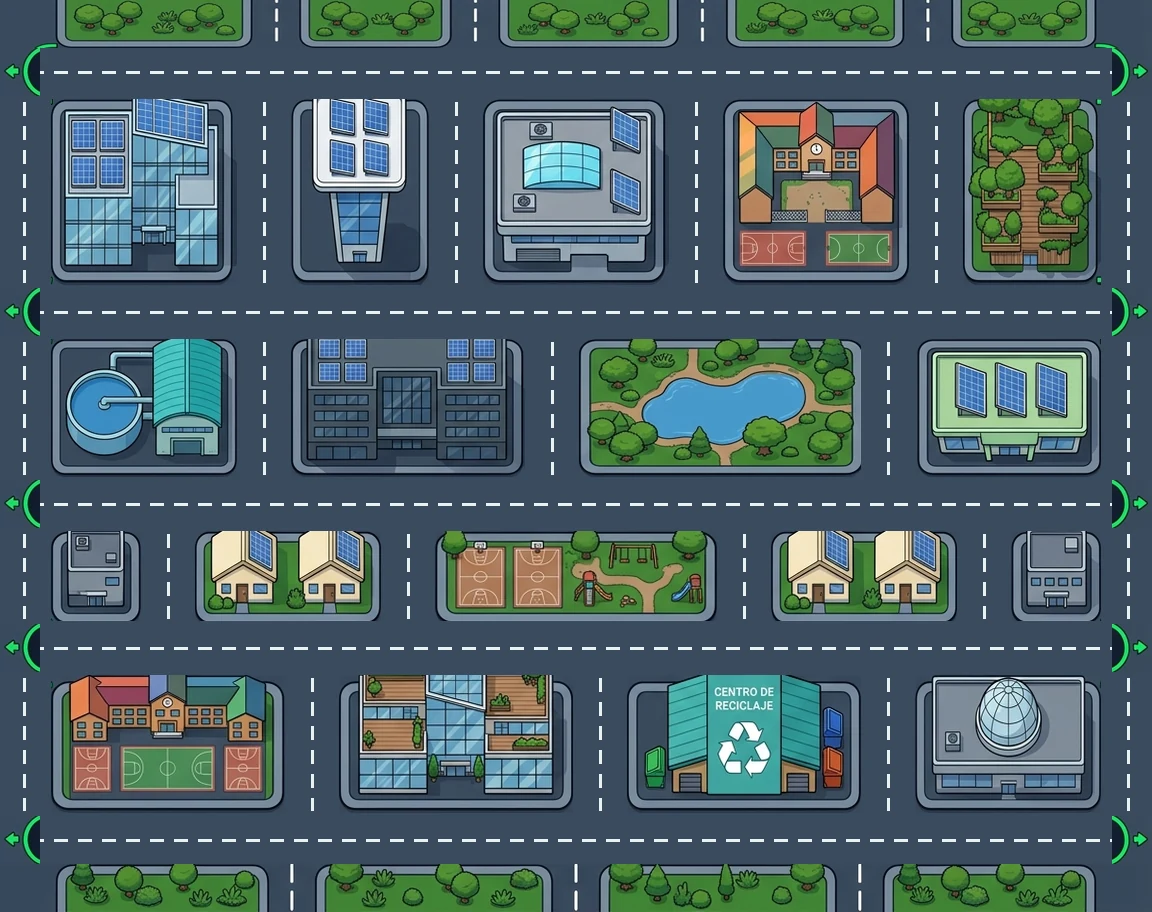
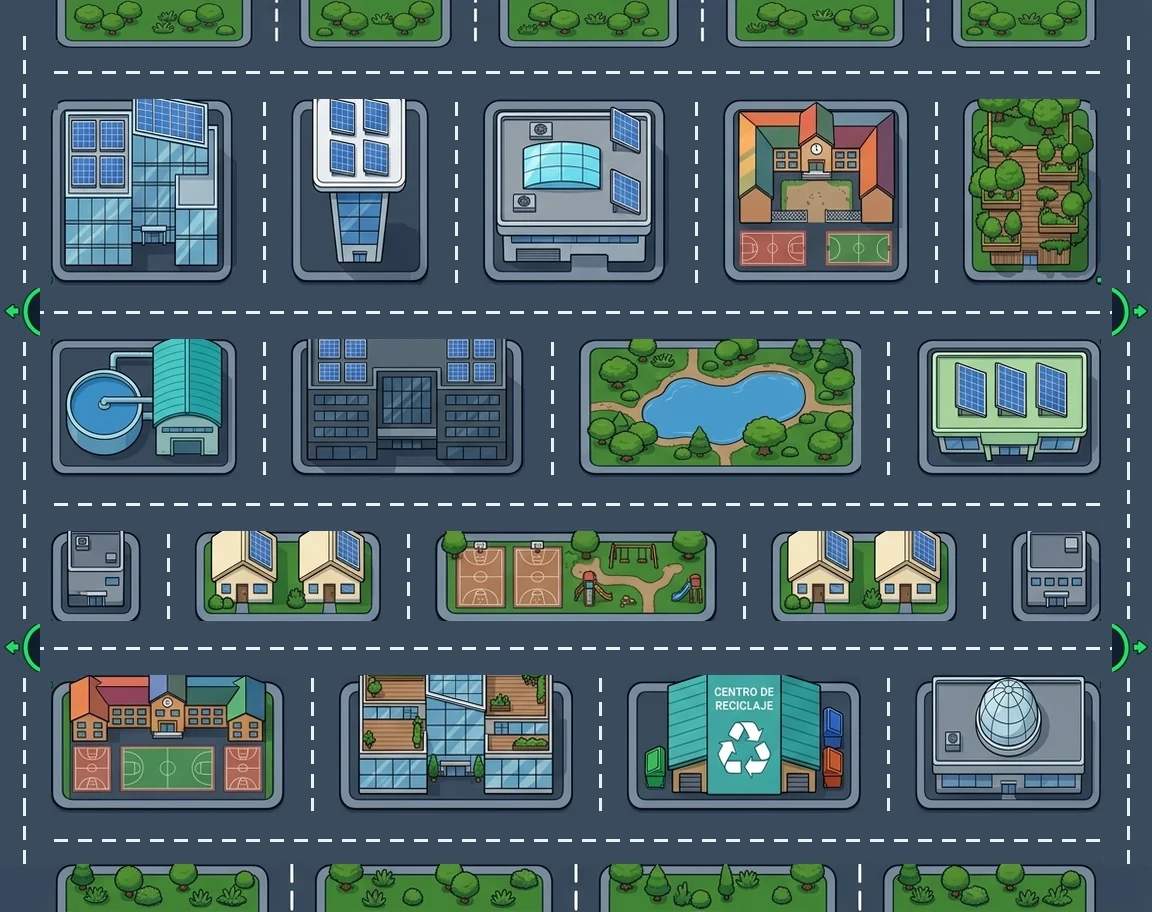
fix(camion): cruce suave por los túneles y solo 2 túneles por lado (#103)
- Al cruzar un túnel el camión (y las nubes) se interpolaban atravesando
  todo el mapa: parecía arrastrado de un lado al otro y podía chocar con una
  nube del medio. Ahora avanza hacia el borde y reaparece por el otro lado;
  la distancia de choque cuenta el atajo del túnel.
- Túneles solo en las 2 avenidas centrales (filas 6 y 13); se borraron del
  dibujo del mapa los arcos de las otras 3. La guía lo explica.

diff --git a/client/src/components/home/games/useMazeCollectorGame.ts b/client/src/components/home/games/useMazeCollectorGame.ts
@@ -617,20 +617,37 @@ function insideArea(pos: CellPosition, area: { row: number; col: number; rows: n
   return pos.row >= area.row && pos.row < area.row + area.rows && pos.col >= area.col && pos.col < area.col + area.cols
 }
 
-function interpolated(entity: Moving): { row: number; col: number } {
-  return {
-    row: entity.pos.row + (entity.nextPos.row - entity.pos.row) * entity.progress,
-    col: entity.pos.col + (entity.nextPos.col - entity.pos.col) * entity.progress,
-  }
+/**
+ * Posición entre dos celdas. Al cruzar un túnel `pos` y `nextPos` quedan en
+ * bordes opuestos: antes se interpolaba atravesando TODO el mapa (el camión
+ * parecía "arrastrado" de un lado al otro y podía chocar con una nube del
+ * medio). Ahora avanza una sola celda hacia afuera del borde y reaparece por
+ * el otro lado.
+ */
+function interpolated(entity: Moving, cols: number): { row: number; col: number } {
+  let deltaCol = entity.nextPos.col - entity.pos.col
+  if (Math.abs(deltaCol) > 1) deltaCol = deltaCol > 0 ? deltaCol - cols : deltaCol + cols
+  let col = entity.pos.col + deltaCol * entity.progress
+  // Pasada la mitad del cruce ya se dibuja entrando por el otro borde.
+  if (col < -0.5) col += cols
+  else if (col > cols - 0.5) col -= cols
+  return { row: entity.pos.row + (entity.nextPos.row - entity.pos.row) * entity.progress, col }
+}
+
+/** Distancia entre dos puntos del mapa contando el atajo de los túneles. */
+function wrappedDistance(a: { row: number; col: number }, b: { row: number; col: number }, cols: number): number {
+  let deltaCol = Math.abs(a.col - b.col)
+  if (deltaCol > cols / 2) deltaCol = cols - deltaCol
+  return Math.hypot(a.row - b.row, deltaCol)
 }
 
 function resolveGhostCollisions(state: InternalState, layout: MazeLayoutDef) {
-  const playerPoint = interpolated(state.player)
+  const playerPoint = interpolated(state.player, layout.cols)
 
   for (const ghost of state.ghosts) {
     if (ghost.mode === 'EATEN') continue
-    const ghostPoint = interpolated(ghost)
-    const distance = Math.hypot(playerPoint.row - ghostPoint.row, playerPoint.col - ghostPoint.col)
+    const ghostPoint = interpolated(ghost, layout.cols)
+    const distance = wrappedDistance(playerPoint, ghostPoint, layout.cols)
     if (distance > COLLISION_RADIUS) continue
 
     if (ghost.mode === 'FRIGHTENED') {
@@ -770,8 +787,8 @@ export type MazeGameSnapshot = {
   feedbackActive: boolean
 }
 
-function toSnapshot(state: InternalState, now: number): MazeGameSnapshot {
-  const playerPoint = interpolated(state.player)
+function toSnapshot(state: InternalState, now: number, cols: number): MazeGameSnapshot {
+  const playerPoint = interpolated(state.player, cols)
   return {
     phase: state.phase,
     level: state.level,
@@ -780,7 +797,7 @@ function toSnapshot(state: InternalState, now: number): MazeGameSnapshot {
     lives: state.lives,
     player: { row: playerPoint.row, col: playerPoint.col, facing: state.player.facing, slowed: now < state.player.slowUntil },
     ghosts: state.ghosts.map((ghost) => {
-      const point = interpolated(ghost)
+      const point = interpolated(ghost, cols)
       return {
         id: ghost.id,
         name: ghost.name,
@@ -829,7 +846,7 @@ export function useMazeCollectorGame({ layout, items, config, inputEnabled = tru
     stateRef.current = createInitialState(layout, items, config, scenario ?? null, questions)
   }
 
-  const [snapshot, setSnapshot] = useState<MazeGameSnapshot>(() => toSnapshot(stateRef.current!, 0))
+  const [snapshot, setSnapshot] = useState<MazeGameSnapshot>(() => toSnapshot(stateRef.current!, 0, layout.cols))
   const frameRef = useRef<number>(0)
   const lastTimeRef = useRef<number | null>(null)
   // Reloj de juego (issue #82): solo avanza fuera de la pausa. El motor guarda
@@ -851,7 +868,7 @@ export function useMazeCollectorGame({ layout, items, config, inputEnabled = tru
       if (pausedRef.current) return
       clockRef.current += elapsedMs
       tickEngine(stateRef.current!, layout, items, clockRef.current, elapsedMs / 1000)
-      setSnapshot(toSnapshot(stateRef.current!, clockRef.current))
+      setSnapshot(toSnapshot(stateRef.current!, clockRef.current, layout.cols))
     }
     frameRef.current = requestAnimationFrame(frame)
     return () => {
@@ -906,4 +923,4 @@ export function useMazeCollectorGame({ layout, items, config, inputEnabled = tru
 }
 
 /** Solo para pruebas del motor. */
-export const __engineForTests = { createInitialState, tickEngine }
+export const __engineForTests = { createInitialState, tickEngine, interpolated, wrappedDistance }

diff --git a/client/src/components/home/games/sostenibleCityMap.ts b/client/src/components/home/games/sostenibleCityMap.ts
@@ -9,8 +9,8 @@ import type { CellPosition, MazeLayoutDef } from './mazeCollectorTypes'
  * coincide con el dibujo — la calle es la calle, el edificio es el edificio.
  *
  * `#` = manzana o franja verde (pared), `.` = calle. Las columnas de los
- * bordes son calles que rodean la ciudad; las 5 avenidas horizontales tienen
- * su puerta de teletransporte en ambos extremos.
+ * bordes son calles que rodean la ciudad; de las 5 avenidas horizontales,
+ * solo las 2 centrales tienen túnel en ambos extremos (`CITY_TUNNEL_ROWS`).
  */
 const CITY_MAP_ROWS_ASCII = [
   '########################',
@@ -68,9 +68,17 @@ function closestOpenCell(grid: number[][], targetRow: number, targetCol: number,
 }
 
 /**
- * Las avenidas del mapa: las filas abiertas de punta a punta. Cada una es una
- * puerta de teletransporte (salir por un borde entra por el otro); el borde
- * se abre por si acaso, igual que `carveTunnels` en mazeCollectorTypes.ts.
+ * Avenidas con túnel (issue #103): solo 2 por lado, las dos centrales, lejos
+ * de las esquinas donde nacen las nubes. Con las 5 avenidas había demasiados
+ * atajos. El dibujo del mapa solo marca estas dos.
+ */
+export const CITY_TUNNEL_ROWS = [6, 13]
+
+/**
+ * Las avenidas del mapa: las filas abiertas de punta a punta. Las que están
+ * en `CITY_TUNNEL_ROWS` son puertas de teletransporte (salir por un borde
+ * entra por el otro); el borde se abre por si acaso, igual que
+ * `carveTunnels` en mazeCollectorTypes.ts.
  */
 function findAndCarveTunnelRows(grid: number[][]): number[] {
   const cols = grid[0].length
@@ -83,7 +91,7 @@ function findAndCarveTunnelRows(grid: number[][]): number[] {
         break
       }
     }
-    if (fullyOpen) {
+    if (fullyOpen && CITY_TUNNEL_ROWS.includes(row)) {
       grid[row][0] = 0
       grid[row][cols - 1] = 0
       tunnelRows.push(row)

diff --git a/client/src/components/home/games/useMazeCollectorGame.spec.ts b/client/src/components/home/games/useMazeCollectorGame.spec.ts
@@ -107,6 +107,34 @@ describe('Camión Reciclador: purificador del tutorial', () => {
   })
 })
 
+describe('Camión Reciclador: túneles', () => {
+  it('solo las 2 avenidas centrales tienen túnel', () => {
+    expect(city.tunnelRows).toEqual([6, 13])
+  })
+
+  it('al cruzar un túnel avanza hacia el borde y reaparece del otro lado (no cruza todo el mapa)', () => {
+    const crossing = { pos: { row: 6, col: 0 }, nextPos: { row: 6, col: city.cols - 1 }, progress: 0.3, facing: 'LEFT' as const }
+    expect(engine.interpolated(crossing, city.cols).col).toBeCloseTo(-0.3)
+    expect(engine.interpolated({ ...crossing, progress: 0.7 }, city.cols).col).toBeCloseTo(city.cols - 0.7)
+  })
+
+  it('una nube en medio del mapa no alcanza al camión que cruza el túnel', () => {
+    const atEdge = { row: 6, col: -0.3 }
+    expect(engine.wrappedDistance(atEdge, { row: 6, col: 12 }, city.cols)).toBeGreaterThan(5)
+    // Y una que espera del otro lado del túnel sí está cerca.
+    expect(engine.wrappedDistance(atEdge, { row: 6, col: city.cols - 1 }, city.cols)).toBeLessThan(1)
+  })
+
+  it('el camión no se teletransporta por una avenida sin túnel', () => {
+    const state = engine.createInitialState(city, [], config)
+    state.ghosts = []
+    state.phase = 'playing'
+    state.player = { pos: { row: 10, col: 1 }, nextPos: { row: 10, col: 1 }, progress: 0, facing: 'LEFT', desiredDirection: 'LEFT', slowUntil: 0 }
+    for (let now = 16; now < 2000; now += 16) engine.tickEngine(state, city, [], now, FRAME)
+    expect(state.player.pos.col).toBeLessThan(city.cols / 2)
+  })
+})
+
 describe('Camión Reciclador: rondas para salvar la ciudad', () => {
   /** Deja una sola botella en el mapa y maneja hasta ella. */
   function cleanCity(state: State) {

diff --git a/client/src/components/home/games/MazeCollectorGuide.tsx b/client/src/components/home/games/MazeCollectorGuide.tsx
@@ -524,7 +524,7 @@ const STEPS: Step[] = [
           <b className="text-white">Celular e-waste:</b> aparece de vez en cuando en el centro. Recógelo rápido para ganar +{POINTS_BONUS} y un dato curioso.
         </Item>
         <Item icon={<Route className="h-4 w-4" />} tone="emerald">
-          <b className="text-white">Túneles:</b> en las avenidas, sal por un borde de la ciudad y apareces por el otro. ¡Ideal para escapar!
+          <b className="text-white">Túneles:</b> en las 2 avenidas del centro (las del arco verde), sal por un borde de la ciudad y apareces por el otro. ¡Ideal para escapar!
         </Item>
       </ul>
     ),

diff --git a/client/src/components/home/games/mazeCollectorTypes.spec.ts b/client/src/components/home/games/mazeCollectorTypes.spec.ts
@@ -56,8 +56,8 @@ describe('MAZE_LAYOUTS — puertas de teletransporte', () => {
     }
   })
 
-  it('el mapa de Ciudad Sostenible tiene puerta en sus 5 avenidas (una fila cada una, como el fondo en sprites)', () => {
-    expect(MAZE_LAYOUTS.CITY.tunnelRows).toEqual([1, 6, 10, 13, 17])
+  it('el mapa de Ciudad Sostenible tiene túnel solo en sus 2 avenidas centrales (como el fondo en sprites)', () => {
+    expect(MAZE_LAYOUTS.CITY.tunnelRows).toEqual([6, 13])
   })
 
   it('en Ciudad Sostenible cada calle mide una sola celda (nunca dos filas o columnas de calle seguidas dentro de la ciudad)', () => {
